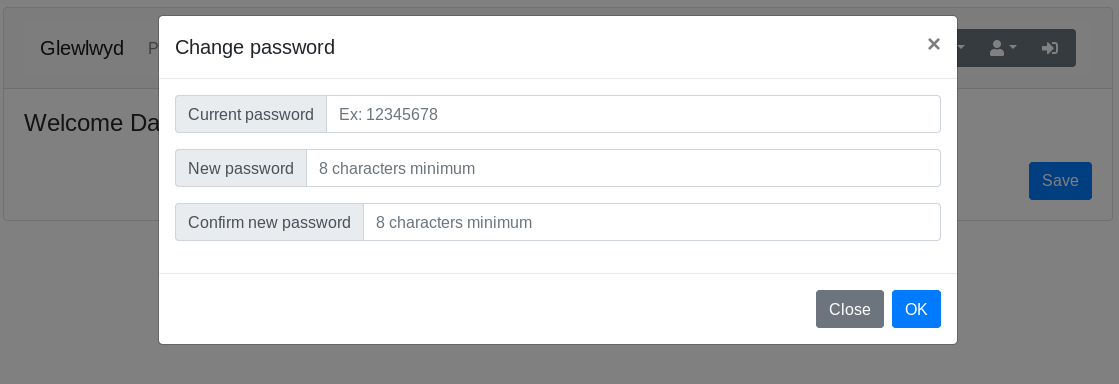
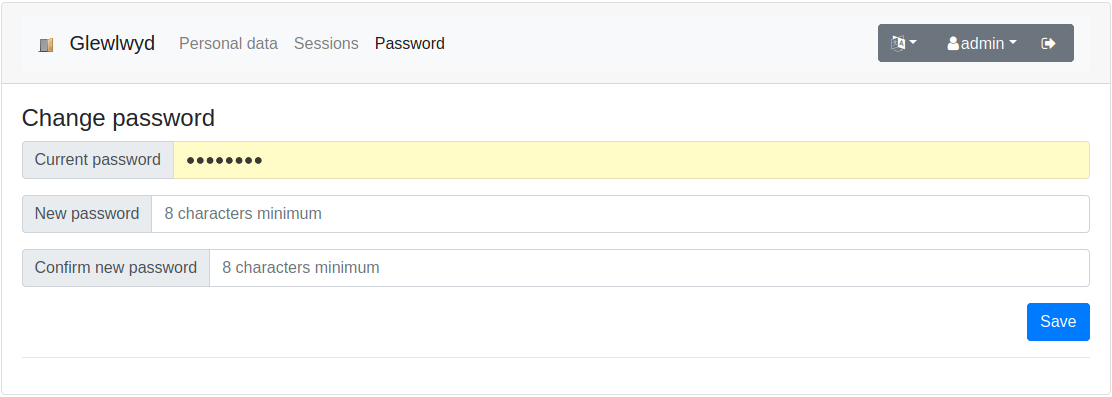
Update doc with the new feature multiple passwords

diff --git a/docs/GETTING_STARTED.md b/docs/GETTING_STARTED.md
@@ -38,6 +38,7 @@
   - [User profile delegation](#user-profile-delegation)
   - [Add or update additional properties for users and clients](#add-or-update-additional-properties-for-users-and-clients)
   - [Non-password authentication](#non-password-authentication)
+  - [Multiple password authentication](#multiple-password-authentication)
 - [Troubleshooting](#troubleshooting)
   - [Impossible to log in as administrator - N-factor issue](#impossible-to-log-in-as-administrator---n-factor-issue)
   - [Impossible to log in as administrator - Password lost](#impossible-to-log-in-as-administrator---password-lost)
@@ -647,6 +648,12 @@ The option `defaultScheme` in the `config.json` file can be used to overwrite pa
 ```
 
 ![login-nopassword](screenshots/login-nopassword.png)
+
+### Multiple password authentication
+
+This feature is new since Glewlwyd 2.5. If this option is enabled in a user backend module (except for the User Module HTTP Backend), users are allowed to have more than one password to authenticate in Glewlwyd services where password is required.
+
+The use-case why this feature was added is when the user backend is LDAP. If this LDAP service is used to authenticate to other services than Glewlwyd, such as an IMAP service or network login, all those services can use different passwords, and those different passwords don't have to be remembered by the user if the user uses a password vault. Also, if one password is compromised, you can change only the compromised password without having too change the password with all the services.
 
 ## Troubleshooting
 

diff --git a/docs/USER.md b/docs/USER.md
@@ -37,9 +37,19 @@ This tab allows the user to manually disable active sessions or refresh tokens p
 
 ## Password
 
+### Single password configuration
+
 ![profile-password](screenshots/profile-password.png)
 
-If you click on the `Password` tab, you'll open a modal window that will allow to change your user password. The new password must be at least 8 characters long.
+If you click on the `Password` tab, you'll be able to change your user password.
+
+### Multiple password configuration
+
+![profile-multiple-password](screenshots/profile-multiple-password.png)
+
+If you click on the `Password` tab, you'll be able to change your user passwords. You can have multiple passwords if you need to, or none if your Glewlwyd service allows passwordless authentication.
+
+Be careful that every password will allow the same access level to your Glewlwyd service, so all of them must be strong enough to avoid being guessed.
 
 ## Schemes
 

diff --git a/docs/USER_DATABASE.md b/docs/USER_DATABASE.md
@@ -25,6 +25,10 @@ Name of the instance displayed to the user.
 
 Check this option if you want to use this backend as read-only. All user properties such as e-mail, name, password, scopes can't be modifier with Glewlwyd, even administrators.
 
+### Multiple password
+
+Check this option if you allow users to manage multiple passwords. More information about multiple passwords use-cases are avaiable in the [Getting Started Dcumentation](GETTING_STARTED.md#multiple-password-authentication).
+
 ### Use the same connection as Glewlwyd server
 
 Uncheck this option if you want to use a different database that will store the users. The new database must have the structure already present. Use one of the following script to initialize the database:

diff --git a/docs/USER_LDAP.md b/docs/USER_LDAP.md
@@ -25,6 +25,10 @@ Name of the instance displayed to the user.
 
 Check this option if you want to use this backend as read-only. All user properties such as e-mail, name, password, scopes can't be modifier with Glewlwyd, even administrators.
 
+### Multiple password
+
+Check this option if you allow users to manage multiple passwords. More information about multiple passwords use-cases are avaiable in the [Getting Started Dcumentation](GETTING_STARTED.md#multiple-password-authentication).
+
 ### Connection URI
 
 URI to connect to the LDAP service, ex: ldaps://ldap.example.com/

diff --git a/docs/USER_HTTP.md b/docs/USER_HTTP.md
@@ -40,6 +40,10 @@ Name of the instance displayed to the user.
 
 Check this option if you want to use this backend as read-only. All user properties such as e-mail, name, password, scopes can't be modifier with Glewlwyd, even administrators.
 
+### Multiple password
+
+Check this option if you allow users to manage multiple passwords. More information about multiple passwords use-cases are avaiable in the [Getting Started Dcumentation](GETTING_STARTED.md#multiple-password-authentication).
+
 ### URL
 
 URL of the HTTP service to connect to.
